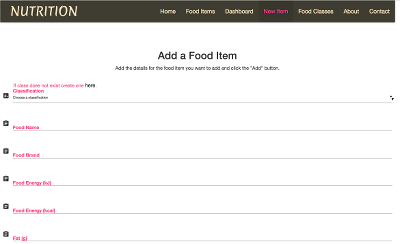
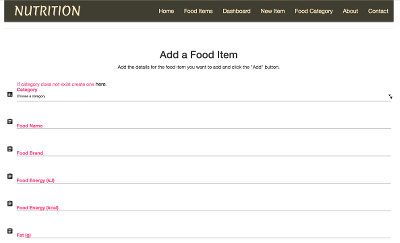
Changed images for index page to reflect the change from Class to Category.

diff --git a/templates/index.html b/templates/index.html
@@ -42,7 +42,7 @@
             <h3>Menus</h3>
             <p>Use the menus at the top to navigate around</p>
 
-            <img src="/static/images/menu.png" class="img-responsive" alt="add food item image">
+            <img src="/static/images/menu-all.png" class="img-responsive" alt="add food item image">
         </div>
 
         <div class="col col-sm-6 info">
